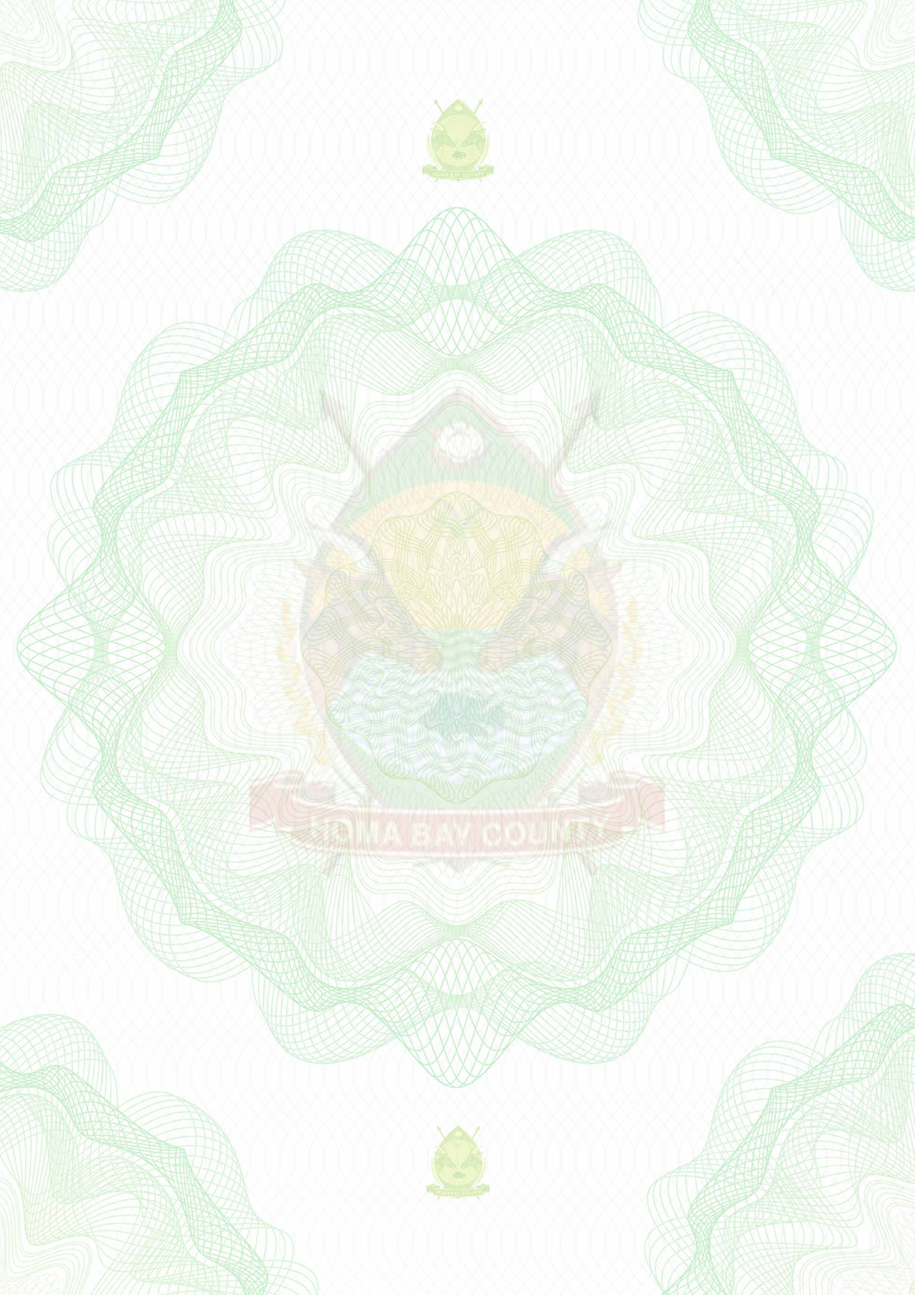
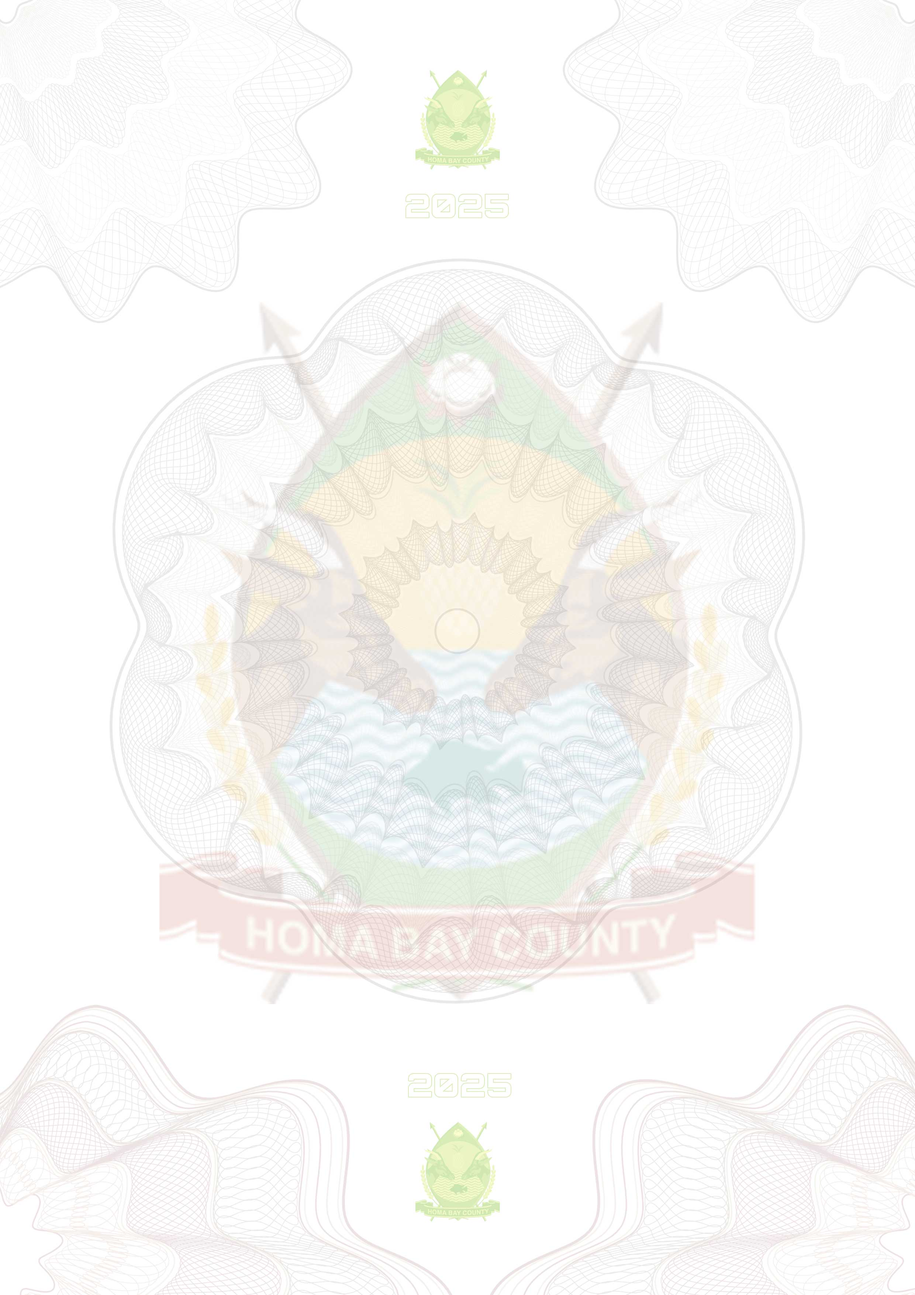
kelvin: some changes have been done on the images

diff --git a/PrintDocs/Trade-Permit/permit.html b/PrintDocs/Trade-Permit/permit.html
@@ -972,7 +972,7 @@
 
             <div class="cert-heading lora-heading my-3" style="padding-top: 0px !important; margin-top: 0.2in !important; text-align: center;">
                 <h1 class="" style="font-family: 'Fondamento', cursive !important; font-size: 60px; margin: 0px; padding: 0px; "><strong style=" font-family: 'Fondamento', cursive !important; ">Single Business Permit</strong></h1>
-                <h6 class=" " style=" margin-top: 0px; padding-top: 0px; font-size: 18px; font-weight: 400;font-family:'Pridi', serif !important;; margin-bottom: 0.2in; padding-bottom: 0px; text-transform: uppercase;">For The Year 2023</h6>
+                <h6 class=" " style=" margin-top: 0px; padding-top: 0px; font-size: 18px; font-weight: 400;font-family:'Pridi', serif !important;; margin-bottom: 0.2in; padding-bottom: 0px; text-transform: uppercase;">For The Year 2025</h6>
             </div>
             <section class="container p-3 m-0">
                 <div class="row">
@@ -1109,7 +1109,7 @@
                                     <div class="p-2 issue-date" style="border-top: 0px !important;">
                                         <span class="green">Licensing officer: </span><span class="" style="font-weight:400;font-family:'Pridi', serif;">Alex Wanjala</span>
                                         <br>
-                                        <span class="green">Date Of Issue: </span><span class="" style="font-weight:400;font-family:'Pridi', serif;">10 Jan 2023</span>
+                                        <span class="green">Date Of Issue: </span><span class="" style="font-weight:400;font-family:'Pridi', serif;">10 Jan 2025</span>
                                        
                                     </div>
                                 </div>
@@ -1118,7 +1118,7 @@
                                 <div>
                                     <div class="p-2 issue-date" style="border-top: 0px !important;">
 
-                                        <span class="green">Expiry Date: </span><br><span style="font-weight:400;font-family:'Pridi', serif;">31 Dec 2023</span>
+                                        <span class="green">Expiry Date: </span><br><span style="font-weight:400;font-family:'Pridi', serif;">31 Dec 2025</span>
                                     </div>
                                 </div>
 
@@ -1144,7 +1144,7 @@
                             <div>
                                 <div style="display: flex; justify-content: space-between; align-items:center; font-size: 12px; font-weight: 500;">
                                     <span>Permit No.: <span style="font-weight: bold; color: red;">00123-23</span></span>
-                                    <span>Date Downloaded 23 Oct 2023 12:34 AM</span>
+                                    <span>Date Downloaded 23 Oct 2025 12:34 AM</span>
                                 </div>
                                 <img src="assets/green-line.png" style="width: 100%;">
                             </div>
